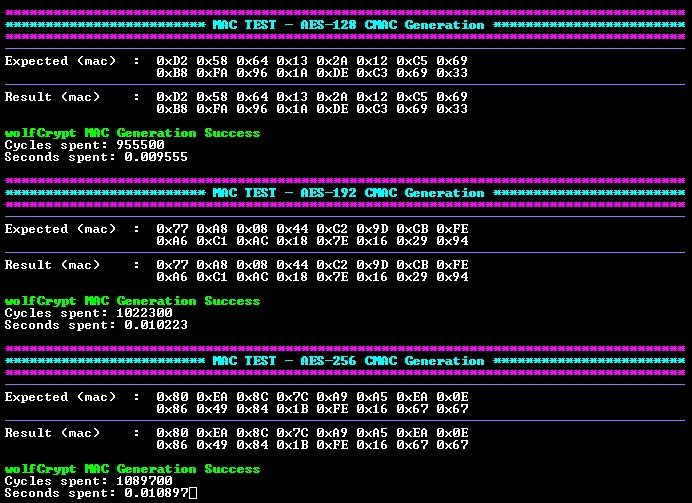
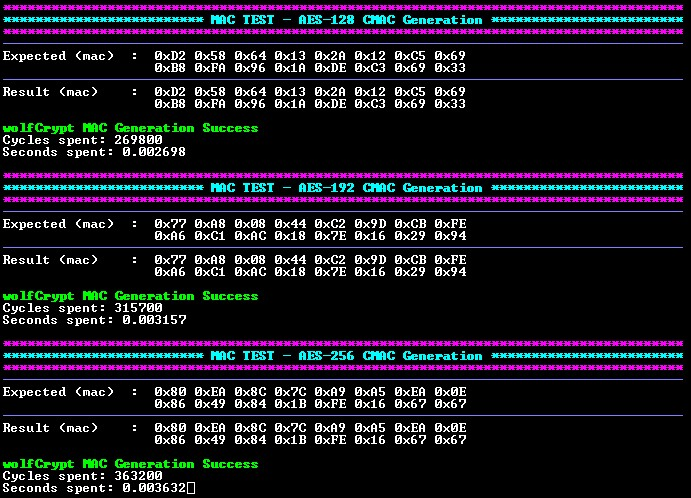
M16CRYPTO-185 Fix REAMDE title and attempt at fixing the results image

diff --git a/dspic33ck256mp508/mac/README.md b/dspic33ck256mp508/mac/README.md
@@ -4,7 +4,7 @@
     <img alt="Microchip Logo." src="../../images/microchip_logo_black_red.png">
 </picture>
 
-# WolfCrypt Message Authentication Code (MAC) Example Application
+# dsPIC33C Message Authentication Code (MAC) Example
 
 ## Description
 This example application utilizes the wolfCrypt library to perform MAC operations using different sized input vectors. The following MAC algorithms are supported:
